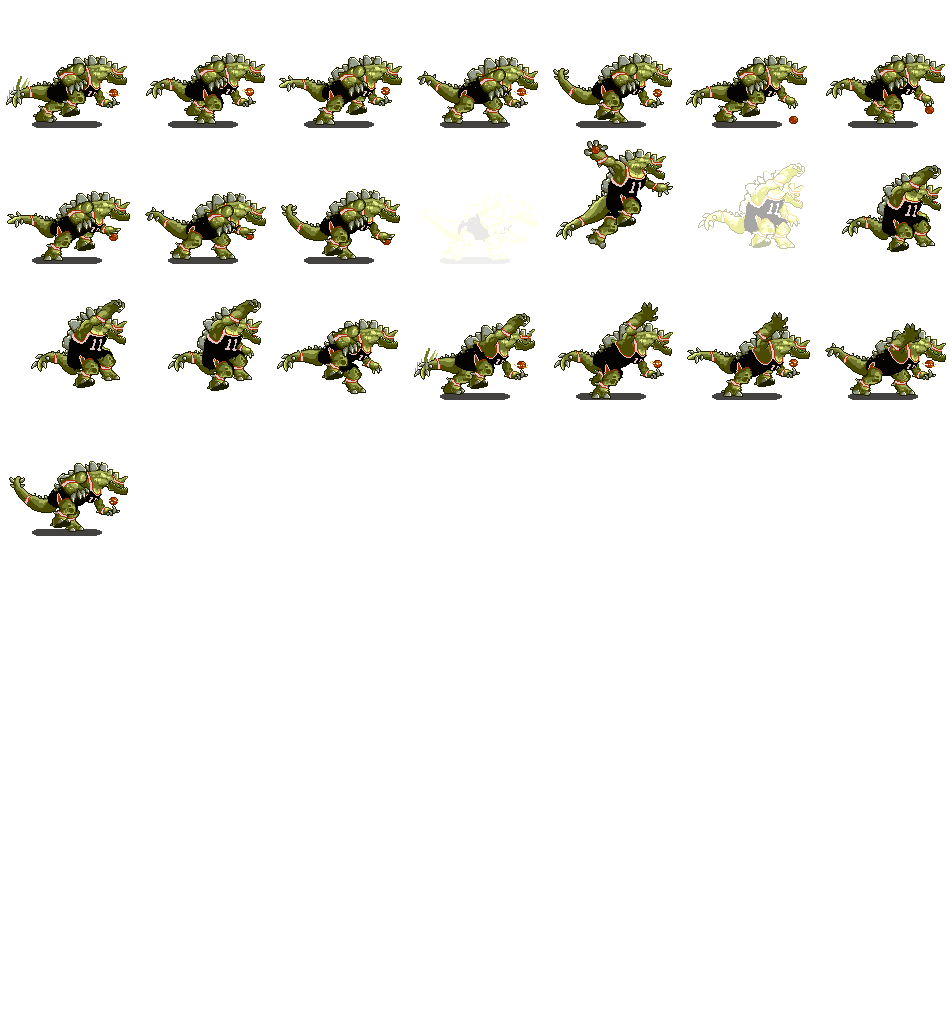
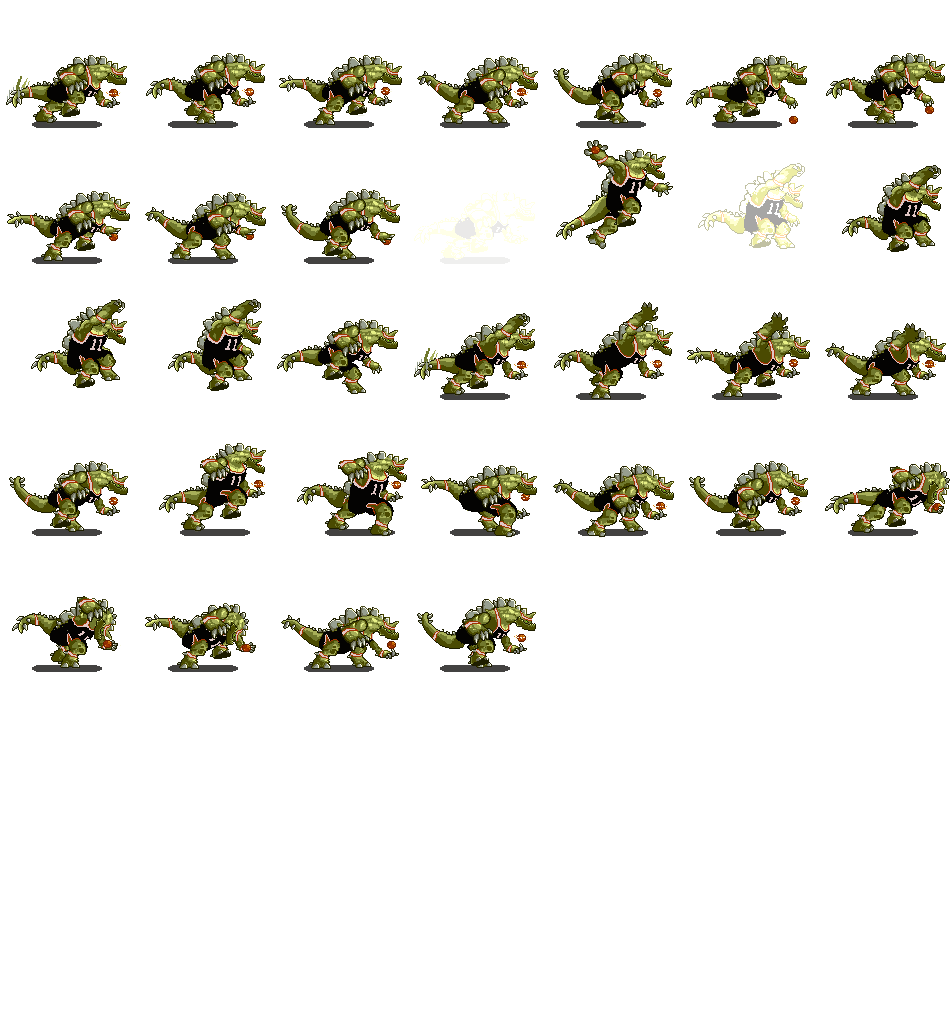
particles!

diff --git a/src/Particle.js b/src/Particle.js
@@ -1,0 +1,59 @@
+"use strict";
+
+LD38.Particle = me.Sprite.extend({
+    init: function(settings, img, vel) {
+
+        var sprite =  {
+            image: img,
+            anchorPoint: new me.Vector2d(.5, .5)
+        };
+
+        this._super(me.Sprite, 'init', [settings.x, settings.y, sprite]);
+        this.velocity = vel;
+        this.life = 500 + Math.random()*500;
+        this.gravity = 500;
+        this.groundY = 140;
+        this.smokeTimer = 400;
+    },
+
+    draw: function(renderer) {
+        this._super(me.Sprite, 'draw', [renderer]);
+    },
+
+    update: function(dt) {
+        this.life -=dt;
+        if(this.life <= 0 ) {
+            this.die();
+            return;
+        }
+        this.velocity.y += this.gravity * dt/1000;
+
+        this.pos.x += this.velocity.x * dt/1000;
+        this.pos.y += this.velocity.y * dt/1000;
+
+        if(this.pos.y > this.groundY){
+            this.pos.y = this.groundY;
+            if( this.velocity.y > 0) {
+                this.velocity.y *= -0.5;
+                this.velocity.x *=0.5;
+            }
+        }
+
+        this.smokeTimer-=dt;
+        if(this.smokeTimer <= 0){
+            this.smokeTimer = 400;
+            var explosion = me.pool.pull('Explosion', this.pos.x, this.pos.y, "firesmoke");
+            me.game.world.addChild(explosion);
+        }
+
+        this._super(me.Sprite, 'update', [dt]);
+
+        return true;
+    },
+
+    die: function() {
+        me.game.world.removeChild(this);
+        var explosion = me.pool.pull('Explosion', this.pos.x, this.pos.y, "firesmoke");
+        me.game.world.addChild(explosion, 1000);
+    },
+});

diff --git a/src/Hoop.js b/src/Hoop.js
@@ -22,7 +22,23 @@ LD38.Hoop = LD38.Note.extend({
 	hit: function() {
 		me.game.viewport.shake(6,500,me.game.viewport.AXIS.BOTH);
 		var explosion = me.pool.pull('Explosion', this.pos.x, this.pos.y-60, "explode_big_64");
-		me.game.world.addChild(explosion);
+		me.game.world.addChild(explosion, 1000);
 		me.audio.play("dunk", false, null, 0.75);
+
+		var explosion = me.pool.pull('Particle', {x:this.pos.x-15, y:this.pos.y-50}, "particle_dunk_1", new me.Vector2d(-60,-4));
+		me.game.world.addChild(explosion);
+		var explosion = me.pool.pull('Particle', {x:this.pos.x, y:this.pos.y+20}, "particle_dunk_2", new me.Vector2d(-70,-25));
+		me.game.world.addChild(explosion);
+		var explosion = me.pool.pull('Particle', {x:this.pos.x, y:this.pos.y-30}, "particle_dunk_2", new me.Vector2d(-70,-25));
+		me.game.world.addChild(explosion);
+		var explosion = me.pool.pull('Particle', {x:this.pos.x, y:this.pos.y-60}, "particle_dunk_3", new me.Vector2d(50,7));
+		me.game.world.addChild(explosion);
+		var explosion = me.pool.pull('Particle', {x:this.pos.x+10, y:this.pos.y-60}, "particle_dunk_5", new me.Vector2d(80,-25));
+		me.game.world.addChild(explosion);
+		var explosion = me.pool.pull('Particle', {x:this.pos.x-10, y:this.pos.y-60}, "particle_dunk_4", new me.Vector2d(150,-30));
+		me.game.world.addChild(explosion, 1000);
+
+		this.randomDebris(4);
+
 	},
 });

diff --git a/src/Kaiju.js b/src/Kaiju.js
@@ -15,6 +15,8 @@ LD38.Kaiju = me.Sprite.extend({
 		this.addAnimation('pre_dunk', [11,11]);
 		this.addAnimation('dunk', [12,13,14,15,16]); //12,13,14,15,16
 		this.addAnimation('choopper', [18,19,20]);  //17,18,19,20,21
+		this.addAnimation('stomp', [22,23,24,25]) //22,23,24,25,26
+		this.addAnimation('headbutt', [27,28,29,30,31]) //27,28,29,30,31;
 
 		this.baseY = this.pos.y;
 		this.preDunkY = this.pos.y-25;
@@ -62,13 +64,16 @@ LD38.Kaiju = me.Sprite.extend({
 				anim = "dribble";
 				break;
 			case "down": //tank
-				anim = "dribble";
+				anim = "stomp";
 				break;
 			case "up": //chopper
 				anim = "choopper";
 				break;
 			case "right": //hoop
 				anim = "dunk";
+				break;
+			case "left": //robot
+				anim = "headbutt";
 				break;
 			default:
 				anim = "dribble";

diff --git a/src/Game.js b/src/Game.js
@@ -166,6 +166,17 @@ LD38.Game = class {
 			this.image('firesmoke'),
 			this.image('beat_line'),
 
+			this.image('particle_dunk_1'),
+			this.image('particle_dunk_2'),
+			this.image('particle_dunk_3'),
+			this.image('particle_dunk_4'),
+			this.image('particle_dunk_5'),
+
+			this.image('debris_1'),
+			this.image('debris_2'),
+			this.image('debris_3'),
+			this.image('debris_4'),
+
 			this.image('great'),
 			this.image('miss'),
 
@@ -194,6 +205,7 @@ LD38.Game = class {
 			'Explosion',
 			'Icon',
 			'Bullet',
+			'Particle'
 		].forEach((type) => {
 			me.pool.register(type, LD38[type], true);
 		});

diff --git a/src/Explosion.js b/src/Explosion.js
@@ -60,11 +60,24 @@ LD38.Explosion = me.Sprite.extend({
 				this.addAnimation('dead', [6]);
 				break;
 		}
-
-
+		this.life = 1000;
 		this.setCurrentAnimation('idle', () => {
 		this.setCurrentAnimation('dead');
 			me.game.world.removeChild(this);
 		});
+	},
+
+	update: function(dt) {
+		this.life -=dt;
+		if(this.life <= 0 ) {
+			this.die();
+			return;
+		}
+		this._super(me.Sprite, 'update', [dt]);
+
+		return true;
+	},
+	die: function() {
+		me.game.world.removeChild(this);
 	},
 });

diff --git a/src/Note.js b/src/Note.js
@@ -105,5 +105,14 @@ LD38.Note = me.Sprite.extend({
 		var explosion = me.pool.pull('Explosion', this.pos.x, this.pos.y, "explode_32");
 		me.game.world.addChild(explosion, 1000);
 	},
+
+	randomDebris: function( num ) {
+
+		for( var i=0; i<num; i++){
+			var explosion = me.pool.pull('Particle', {x:this.pos.x, y:this.pos.y}, "debris_" + (Math.round(Math.random()*3)+1), new me.Vector2d(Math.random()*200-100,Math.random()*600-300));
+			me.game.world.addChild(explosion);
+		}
+	},
+
 });
 

diff --git a/src/Tank.js b/src/Tank.js
@@ -30,5 +30,7 @@ LD38.Tank = LD38.Note.extend({
 		var explosion = me.pool.pull('Explosion', this.pos.x, this.pos.y+10, "explode_32");
 		me.game.world.addChild(explosion, 1000);
 		me.audio.play("tankexplode", false, null, 0.75);
+
+		this.randomDebris(Math.round(1 + Math.random()*1));
 	},
 });

diff --git a/src/Chopper.js b/src/Chopper.js
@@ -30,5 +30,6 @@ LD38.Chopper = LD38.Note.extend({
 		var explosion = me.pool.pull('Explosion', this.pos.x, this.pos.y, "explode_32");
 		me.game.world.addChild(explosion, 1000);
 		me.audio.play("heliexplode", false, null, 0.9);
+		this.randomDebris(Math.round(1 + Math.random()*1));
 	},
 });

diff --git a/src/Robot.js b/src/Robot.js
@@ -28,6 +28,7 @@ LD38.Robot = LD38.Note.extend({
 		var explosion = me.pool.pull('Explosion', this.pos.x, this.pos.y, "explode_big_64");
 		me.game.world.addChild(explosion);
 		me.audio.play("robotexplode", false, null, 0.75);
+		this.randomDebris(Math.round(3 + Math.random()*2));
 	},
 
 });

diff --git a/src/Song-level1.js b/src/Song-level1.js
@@ -18,17 +18,17 @@ LD38.Song.level1 = () => new LD38.Song({
 	//slow start
 		0  : 4,
 		4  : null,
-		8  : null,
+		8  : 2,
 		12 : null,
 
 		16 : 4,
 		20 : null,
-		24 : null,
+		24 : 2,
 		28 : null,
 
 		32 : 4,
 		36 : null,
-		40 : null,
+		40 : 2,
 		44 : null,
 
 		48 : 4,

diff --git a/index.html b/index.html
@@ -33,6 +33,7 @@
 		<script src="src/Song-Drumtest.js"></script>
 		<script src="src/Explosion.js"></script>
 		<script src="src/Bullet.js"></script>
+		<script src="src/Particle.js"></script>
 
 		<script src="src/BGManager.js"></script>
 		<script src="src/HPDisplay.js"></script>
